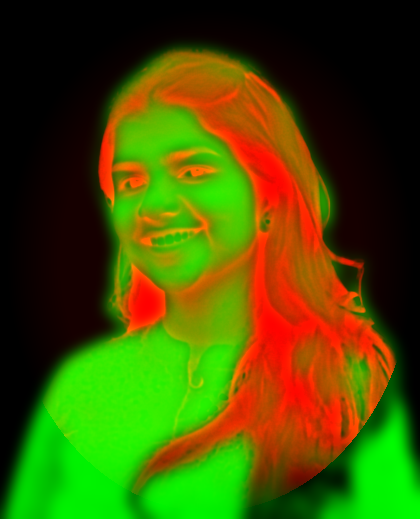
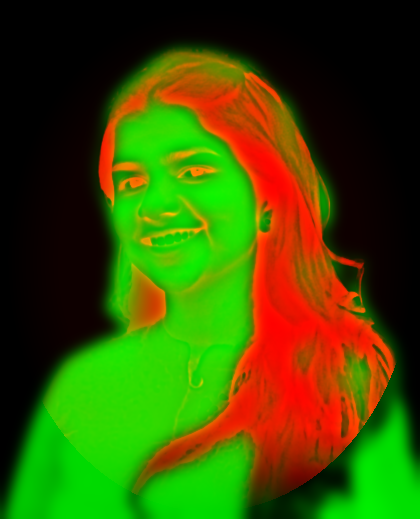
feat(photos): a kinder tone map — her face lit evenly, the hair deep, the jaw clean

diff --git a/scripts/photos.py b/scripts/photos.py
@@ -29,27 +29,71 @@ def luminance(rgb):
     return 0.2126 * rgb[..., 0] + 0.7152 * rgb[..., 1] + 0.0722 * rgb[..., 2]
 
 
+def gblur(arr, r):
+    """Gaussian blur (sigma r px) on a float array, edges reflected. NumPy only."""
+    if r <= 0:
+        return arr.astype(np.float32).copy()
+    n = int(np.ceil(r * 3))
+    k = np.exp(-0.5 * (np.arange(-n, n + 1) / r) ** 2)
+    k = (k / k.sum()).astype(np.float32)
+    out = np.pad(arr.astype(np.float32), ((0, 0), (n, n)), mode="reflect")
+    out = sum(k[i] * out[:, i : i + arr.shape[1]] for i in range(2 * n + 1))
+    out = np.pad(out, ((n, n), (0, 0)), mode="reflect")
+    return sum(k[i] * out[i : i + arr.shape[0], :] for i in range(2 * n + 1)).astype(np.float32)
+
+
+def smoothstep(a, b, x):
+    t = np.clip((x - a) / (b - a), 0, 1)
+    return t * t * (3 - 2 * t)
+
+
 def frontispiece(cutout, photo, crop, width=420):
     im = Image.open(os.path.join(SRC, cutout)).convert("RGBA").crop(crop)
     h = round(im.size[1] * width / im.size[0])
     im = im.resize((width, h), Image.LANCZOS)
     a = np.asarray(im).astype(np.float32) / 255.0
     rgb, alpha = a[..., :3], a[..., 3]
-    lum = blur(luminance(rgb), 0.8)
-    lum = np.clip(lum + 0.75 * (lum - blur(lum, 10)), 0, 1)  # local contrast: features carry
-    subj = lum[alpha > 0.5]
-    lo, hi = np.percentile(subj, 2), np.percentile(subj, 98)
-    dark = 1 - np.clip((lum - lo) / (hi - lo), 0, 1)
-    dark = dark ** 1.45  # keep skin light, hair deep
-    H, W = dark.shape
+    H, W = alpha.shape
     yy, xx = np.mgrid[0:H, 0:W]
+
+    lum = gblur(0.2126 * rgb[..., 0] + 0.7152 * rgb[..., 1] + 0.0722 * rgb[..., 2], 0.7)
+    cr = 0.5 + 0.5 * rgb[..., 0] - 0.418688 * rgb[..., 1] - 0.081312 * rgb[..., 2]
+
+    # skin: warm (Cr), not too dark, inside the figure
+    skin = smoothstep(0.545, 0.575, gblur(cr, 1.0)) * smoothstep(0.10, 0.2, lum) * (alpha > 0.5)
+    skin = np.clip(gblur(skin, 1.2), 0, 1)
+
+    # light the skin evenly: lift its shading toward its own bright level
+    # (a skin-only local mean, so the hair never bleeds in), keep the features
+    base = gblur(lum * skin, 9.0) / (gblur(skin, 9.0) + 1e-4)
+    ref = np.percentile(lum[skin > 0.8], 85)
+    lifted = np.maximum(base + (ref - base) * 0.72, base)
+    lum = lum * (1 - skin) + (lifted + (lum - base) * 1.45) * skin
+
+    lum = np.clip(lum + 0.48 * (lum - gblur(lum, 10.0)), 0, 1.2)  # local contrast: features carry
+    subj = lum[alpha > 0.5]
+    lo, hi = np.percentile(subj, 2), np.percentile(subj, 98.5)
+    dark = (1 - np.clip((lum - lo) / (hi - lo), 0, 1)) ** 1.7  # keep the lit face near white
+
+    hair = (1 - skin) * smoothstep(0.45, 0.75, dark)
+    dark = dark + (1 - dark) * hair * 0.6  # hair toward black, sheen kept
+    clothes = (1 - skin) * (1 - smoothstep(0.35, 0.6, dark)) * smoothstep(0.55, 0.75, yy / H)
+    dark = dark + (1 - dark) * clothes * 0.12  # the clothes get a light tone
+
+    # the lock of hair that falls along her jaw on the left: in ink alone a
+    # dark mass hugging the jawline reads as a shadow on the chin, so let it
+    # fall back to a soft mid-tone right beside the face
+    lock = np.exp(-(((xx / W - 0.27) / 0.09) ** 2 + ((yy / H - 0.57) / 0.13) ** 2))
+    dark = dark * (1 - 0.68 * lock * (1 - skin))
+
     cx, cy, rx, ry = W / 2, H / 2, W * 0.485, H * 0.485
     oval = ((xx - cx) / rx) ** 2 + ((yy - cy) / ry) ** 2
-    bg = np.clip((1 - oval) * 2.2, 0, 1) * 0.085
-    tone = alpha * (0.15 + 0.85 * dark) + (1 - alpha) * bg
+    bg = np.clip((1 - oval) * 2.2, 0, 1) * 0.055  # a faint ruled background
+    tone = alpha * (0.04 + 0.96 * dark) + (1 - alpha) * bg
     fade = np.clip((0.985 - yy / H) / 0.16, 0, 1)  # a vignetted bust: the bottom dissolves
     tone = np.where(oval <= 1, tone * (alpha * fade + (1 - alpha)), 0)
-    disp = blur((1 - dark) * alpha, 6.5)
+    disp = gblur((1 - dark) * alpha, 6.5)
+
     rg = np.zeros((H, W, 3), dtype=np.uint8)
     rg[..., 0] = (np.clip(tone, 0, 1) * 255).round()
     rg[..., 1] = (np.clip(disp, 0, 1) * 255).round()
